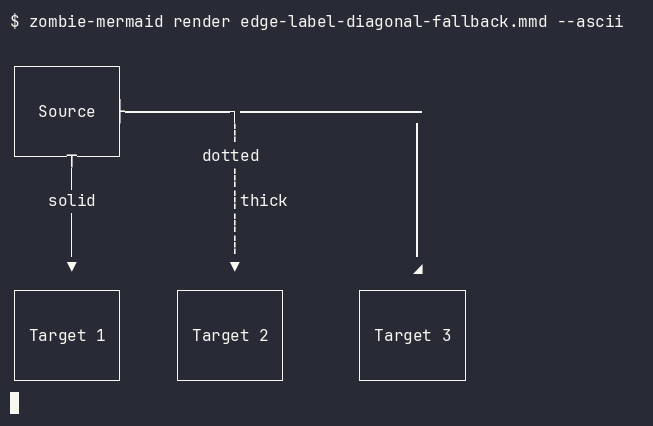
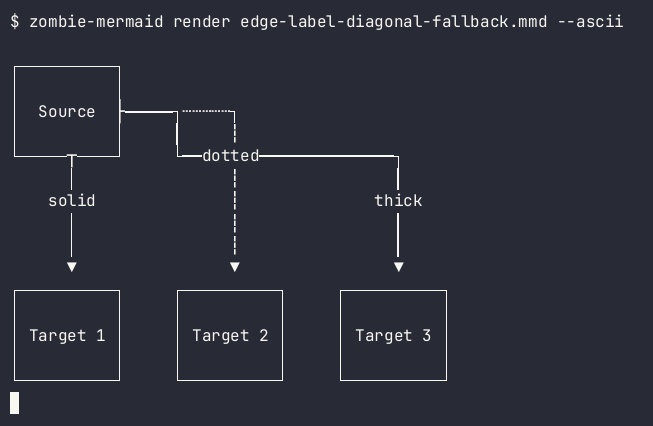
docs(site): render every fork-fixes "before" from upstream beautiful-mermaid
The page compares against lukilabs/beautiful-mermaid, but each "before"
was rendered from the fork's own fixCommit^, which already carries earlier
fork fixes (52 of 54 entries). Render all of them from upstream pinned at
the fork point (2ac8bbbb) instead, in both the SSR build and the
real-terminal screenshot script, and regenerate the "before" PNGs.

diff --git a/packages/site/ssr/fork-fixes-before.ts b/packages/site/ssr/fork-fixes-before.ts
@@ -1,6 +1,6 @@
 /**
  * The "before" half of fork-fixes.html (#1844): renders each fix's source with
- * the renderer as it was at `fixCommit^`.
+ * upstream beautiful-mermaid (`UPSTREAM_COMMIT`).
  *
  * Each commit's tree is `git archive`d, then ALL trees are bundled by one Vite
  * (rolldown) SSR build and imported in this process. That replaces the old
@@ -24,6 +24,14 @@ import { promisify } from 'node:util'
 import { build, type Plugin } from 'vite'
 
 const exec = promisify(execFile)
+
+/**
+ * The "before" is always upstream `lukilabs/beautiful-mermaid`, pinned at the
+ * point this fork diverged (its `main` head when pinned, 2026-05-06), never the
+ * fork's own `fixCommit^`: the page compares against upstream, and a fork
+ * parent already carries earlier fork fixes (and fork-only features).
+ */
+export const UPSTREAM_COMMIT = '2ac8bbbb060ca0a65a6a21f3200bd99b1587b488'
 
 export interface BeforeFix {
   id: string
@@ -66,64 +74,26 @@ export function renderWith(
 }
 
 /**
- * Check that `commit`'s first parent is present. The page can only be built
- * from a repository with full history; a shallow clone makes `git archive`
- * fail with a bare "not a valid object name". Both workflows that build the
- * site set `fetch-depth: 0`; this turns the failure into an instruction.
- *
- * Verifies `commit^1`, NOT `commit`: `^{commit}` is a peel operator returning
- * the object itself, so checking `commit^{commit}` proves nothing about the
- * parent, and the parent is what gets archived.
+ * Extract upstream's `src/` at `commit` into `dir`. The page can only be built
+ * from a repository with full history (the pinned commit is an ancestor of
+ * HEAD); a shallow clone makes `git archive` fail with a bare "not a valid
+ * object name". Both workflows that build the site set `fetch-depth: 0`.
  */
-async function requireCommit(commit: string): Promise<void> {
+async function archiveUpstream(commit: string, dir: string) {
   try {
-    await exec('git', ['rev-parse', '--verify', `${commit}^1^{commit}`])
+    await exec('git', ['rev-parse', '--verify', `${commit}^{commit}`])
   } catch {
-    const shallow = await exec('git', ['rev-parse', '--is-shallow-repository'])
-      .then((r) => r.stdout.trim() === 'true')
-      .catch(() => false)
     throw new Error(
-      `Commit ${commit} or its parent is not in this repository.\n` +
-        (shallow
-          ? 'This is a shallow clone. The fork-fixes page renders each "before" from a ' +
-            'historical commit, so it needs full history: run ' +
-            '`git fetch --unshallow`, or set `fetch-depth: 0` on the checkout step.'
-          : 'Check the fixCommit value in demo/fork-fixes-data.ts.'),
+      `Upstream commit ${commit} is not in this repository. The fork-fixes page ` +
+        'renders each "before" from it, so it needs full history: run ' +
+        '`git fetch --unshallow`, or set `fetch-depth: 0` on the checkout step.',
     )
   }
-}
-
-/**
- * Extract the tree at `commit^` into `dir`: `src/`, plus `packages/` and
- * `tsconfig.json` when the commit postdates the monorepo split (#620) (a fix
- * inside a `@zombie-mermaid/*` package needs its own archived tree).
- */
-async function archiveCommitBefore(commit: string, dir: string) {
-  await requireCommit(commit)
   await mkdir(dir, { recursive: true })
-  const hasPackages = await exec('git', [
-    'cat-file',
-    '-e',
-    `${commit}^:packages`,
-  ])
-    .then(() => true)
-    .catch(() => false)
-  const paths = hasPackages ? 'src packages tsconfig.json' : 'src'
-  // `git archive` writes a clean tree with no working-copy interference.
   await exec(
     'sh',
-    ['-c', `git archive ${commit}^ ${paths} | tar -x -C ${JSON.stringify(dir)}`],
+    ['-c', `git archive ${commit} src | tar -x -C ${JSON.stringify(dir)}`],
     { maxBuffer: 64 * 1024 * 1024 },
-  )
-}
-
-/** Run `fn` over `items`, at most `limit` at a time. */
-async function pool<T>(items: T[], limit: number, fn: (t: T) => Promise<void>) {
-  const queue = [...items]
-  await Promise.all(
-    Array.from({ length: limit }, async () => {
-      for (let item = queue.shift(); item; item = queue.shift()) await fn(item)
-    }),
   )
 }
 
@@ -168,8 +138,8 @@ export async function renderBeforeAll(
   const out = join(workDir, 'out')
   try {
     await rm(workDir, { recursive: true, force: true })
-    const commits = [...new Set(fixes.map((f) => f.fixCommit))]
-    await pool(commits, 8, (c) => archiveCommitBefore(c, join(trees, c)))
+    const commits = [UPSTREAM_COMMIT]
+    await archiveUpstream(UPSTREAM_COMMIT, join(trees, UPSTREAM_COMMIT))
 
     await build({
       configFile: false,
@@ -195,7 +165,7 @@ export async function renderBeforeAll(
     const results = new Map<string, BeforeResult>()
     for (const fix of fixes) {
       const mod = (await import(
-        pathToFileURL(join(out, `${fix.fixCommit}.mjs`)).href
+        pathToFileURL(join(out, `${UPSTREAM_COMMIT}.mjs`)).href
       )) as RendererModule
       try {
         results.set(fix.id, { output: renderWith(mod, fix.source, fix.render, fix.options) })

diff --git a/scripts/capture-fork-fixes-terminal.ts b/scripts/capture-fork-fixes-terminal.ts
@@ -52,6 +52,7 @@ import { mkdir, readdir, rename, rm, writeFile } from 'node:fs/promises'
 import { existsSync } from 'node:fs'
 import { promisify } from 'node:util'
 import { forkFixes } from '../demo/fork-fixes-data.ts'
+import { UPSTREAM_COMMIT } from '../packages/site/ssr/fork-fixes-before.ts'
 import { displayWidth } from '../packages/ascii-renderer/src/display-width.ts'
 
 const exec = promisify(execFile)
@@ -71,69 +72,26 @@ const RENDER_BEFORE_SCRIPT = new URL(
   import.meta.url,
 ).pathname
 
-/** Mirrors fork-fixes.ts's own guard — see there for the full rationale. */
-async function requireCommit(commit: string): Promise<void> {
-  try {
-    await exec('git', ['rev-parse', '--verify', `${commit}^1^{commit}`])
-  } catch {
-    const shallow = await exec('git', ['rev-parse', '--is-shallow-repository'])
-      .then((r) => r.stdout.trim() === 'true')
-      .catch(() => false)
-    throw new Error(
-      `Commit ${commit} or its parent is not in this repository.\n` +
-        (shallow
-          ? 'This is a shallow clone — run `git fetch --unshallow`.'
-          : `Check the fixCommit value in demo/fork-fixes-data.ts.`),
-    )
-  }
-}
-
 /**
- * Extract `commit^`'s src/, packages/, and tsconfig.json into a scratch dir
- * and return its index.ts path. Mirrors fork-fixes.ts's `archiveCommitBefore()`
- * exactly, including the `hasPackages` guard: an old fixCommit predating the
- * packages/ split (#769/#1111) has no packages/ tree to archive, so this
- * checks before requesting it rather than letting `git archive` fail.
- *
- * Checks for the *specific files* a complete extraction needs, not just
- * that `dir` exists: a directory left behind by a run that predates this
- * function's packages/tsconfig.json archiving (or one interrupted between
- * the two `git archive` calls) would otherwise look "already populated"
- * and get reused as-is - silently resolving @zombie-mermaid/* bare
- * specifiers against the working tree instead of the archived commit,
- * exactly the bug this whole extraction exists to avoid (see issue #1141).
+ * Extract upstream beautiful-mermaid's `src/` (pinned at `UPSTREAM_COMMIT`, the
+ * only "before" the page compares against) into a scratch dir and return its
+ * index.ts path. Upstream predates the packages/ split, so there is no
+ * packages/ or tsconfig.json to archive.
  */
-async function extractBefore(commit: string): Promise<string> {
-  const dir = `${CACHE_DIR}${commit}`
-  const hasPackages = await exec('git', [
-    'cat-file',
-    '-e',
-    `${commit}^:packages`,
-  ])
-    .then(() => true)
-    .catch(() => false)
-  const isComplete =
-    existsSync(`${dir}/src/index.ts`) &&
-    (!hasPackages || existsSync(`${dir}/tsconfig.json`))
-  if (!isComplete) {
-    await requireCommit(commit)
+async function extractBefore(): Promise<string> {
+  const dir = `${CACHE_DIR}${UPSTREAM_COMMIT}`
+  if (!existsSync(`${dir}/src/index.ts`)) {
+    await exec('git', ['rev-parse', '--verify', `${UPSTREAM_COMMIT}^{commit}`])
     await rm(dir, { recursive: true, force: true })
     await mkdir(dir, { recursive: true })
     await exec(
       'sh',
-      ['-c', `git archive ${commit}^ src | tar -x -C ${JSON.stringify(dir)}`],
+      [
+        '-c',
+        `git archive ${UPSTREAM_COMMIT} src | tar -x -C ${JSON.stringify(dir)}`,
+      ],
       { maxBuffer: 64 * 1024 * 1024 },
     )
-    if (hasPackages) {
-      await exec(
-        'sh',
-        [
-          '-c',
-          `git archive ${commit}^ packages tsconfig.json | tar -x -C ${JSON.stringify(dir)}`,
-        ],
-        { maxBuffer: 64 * 1024 * 1024 },
-      )
-    }
   }
   return `${dir}/src/index.ts`
 }
@@ -296,7 +254,7 @@ async function main() {
   for (const fix of fixes) {
     process.stdout.write(`  ${fix.id}… `)
     const afterIndexPath = `${REPO_ROOT}src/index.ts`
-    const beforeIndexPath = await extractBefore(fix.fixCommit)
+    const beforeIndexPath = await extractBefore()
 
     // A render can throw (a crash IS the "before" state for some fixes) or
     // produce empty output (the diagram was dropped entirely) — fork-fixes.ts

diff --git a/packages/site/ssr/fork-fixes-routes.ts b/packages/site/ssr/fork-fixes-routes.ts
@@ -2,8 +2,8 @@
  * fork-fixes.html — a before/after showcase of bugs this fork fixed (ported from
  * the former packages/site/fork-fixes.ts).
  *
- * Every "before" is rendered by the project's actual renderer as it existed
- * immediately before the fix landed (fork-fixes-before.ts, started by the
+ * Every "before" is rendered by upstream lukilabs/beautiful-mermaid, pinned at
+ * the fork point (fork-fixes-before.ts, started by the
  * build config concurrently with everything else); every "after" is the live
  * tree. Nothing is hand-drawn. The build FAILS if any pair renders
  * identically: a before/after where both halves look the same silently claims a

diff --git a/demo/fork-fixes-data.ts b/demo/fork-fixes-data.ts
@@ -3,7 +3,8 @@
 //
 // Each entry names a real bug this fork fixed, the commit that fixed it, and a
 // diagram that demonstrates it. The generator renders every entry TWICE: once
-// against the tree at `fixCommit^` (the code immediately before the fix) and
+// against upstream lukilabs/beautiful-mermaid (pinned at the fork point, see
+// fork-fixes-before.ts; `fixCommit` is only the fork's fix, not the "before") and
 // once against the working tree. Nothing here is hand-drawn — a "before" that
 // stopped reproducing would show up as an identical pair, which the generator
 // fails on rather than quietly publishing.

diff --git a/CONTRIBUTING.md b/CONTRIBUTING.md
@@ -240,7 +240,7 @@ Either way, add a changeset (see "Changesets" above) describing what changed and
 
 ### Adding a fork-fixes entry
 
-`demo/fork-fixes-data.ts` backs the fork-fixes page (`packages/site/ssr/fork-fixes-routes.ts`), a before/after showcase of bugs this fork has fixed vs. upstream. It's a credible differentiator specifically because every pair is a _real_ render from an actual pre-fix/post-fix commit, not a hand-drawn illustration — the generator fails the build if a pair renders identically (see `packages/site/ssr/fork-fixes-before.ts`'s own header comment and [#189](https://github.com/dfadler/zombie-mermaid/issues/189)). That evidentiary value only holds up if the page keeps growing with the fork, so treat adding an entry as a standing step for bug-fix PRs, not a one-time backfill (see [#295](https://github.com/dfadler/zombie-mermaid/issues/295)):
+`demo/fork-fixes-data.ts` backs the fork-fixes page (`packages/site/ssr/fork-fixes-routes.ts`), a before/after showcase of bugs this fork has fixed vs. upstream. It's a credible differentiator specifically because every pair is a _real_ render of upstream beautiful-mermaid (before) vs. this fork (after), not a hand-drawn illustration — the generator fails the build if a pair renders identically (see `packages/site/ssr/fork-fixes-before.ts`'s own header comment and [#189](https://github.com/dfadler/zombie-mermaid/issues/189)). That evidentiary value only holds up if the page keeps growing with the fork, so treat adding an entry as a standing step for bug-fix PRs, not a one-time backfill (see [#295](https://github.com/dfadler/zombie-mermaid/issues/295)):
 
 - If your PR fixes a bug that changes _rendered_ output (SVG or ASCII — a wrong shape, a dropped edge, a corrupted label, a layout glitch, a crash on previously-malformed input), add an entry to the `forkFixes` array in `demo/fork-fixes-data.ts`: a minimal Mermaid `source` that reproduces the bug, the `fixCommit`, the PR number, and a short `lookFor` describing what changed. Run `pnpm run build:site` locally to confirm your pair actually renders two different things before committing it (the build fails if a pair renders identically) — see the interface doc comments in `demo/fork-fixes-data.ts` for the full field list (including the optional `excerpt` and `upstreamIssues` fields). The README deliberately states no count (it conflicted on every PR, #2590); the fork-fixes page itself is the source of truth, and `pnpm run check:docs` fails if a "(N fixes)" count reappears in the README.
 - If the fix is _not_ visible in rendered output (an internal refactor, a type-only fix, a performance fix, a fix to something other than the renderer itself), skip the entry — there's nothing for the showcase to demonstrate.
